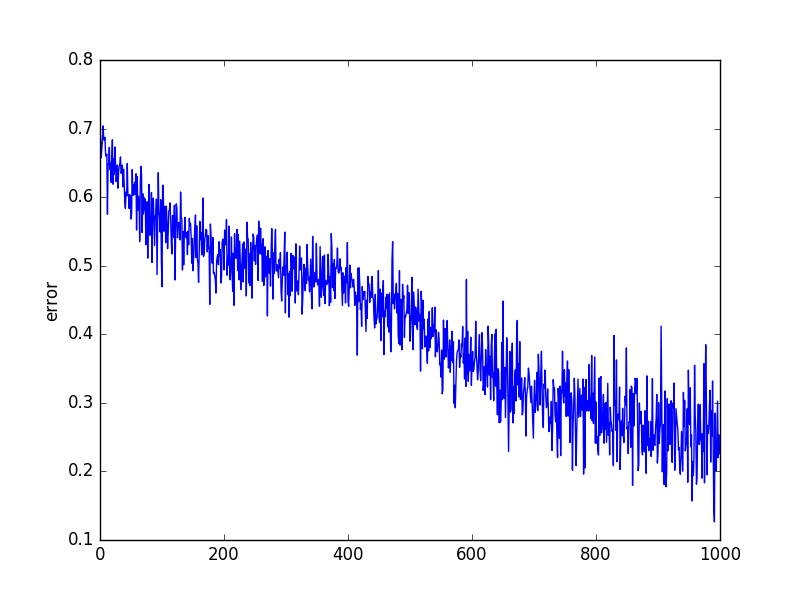
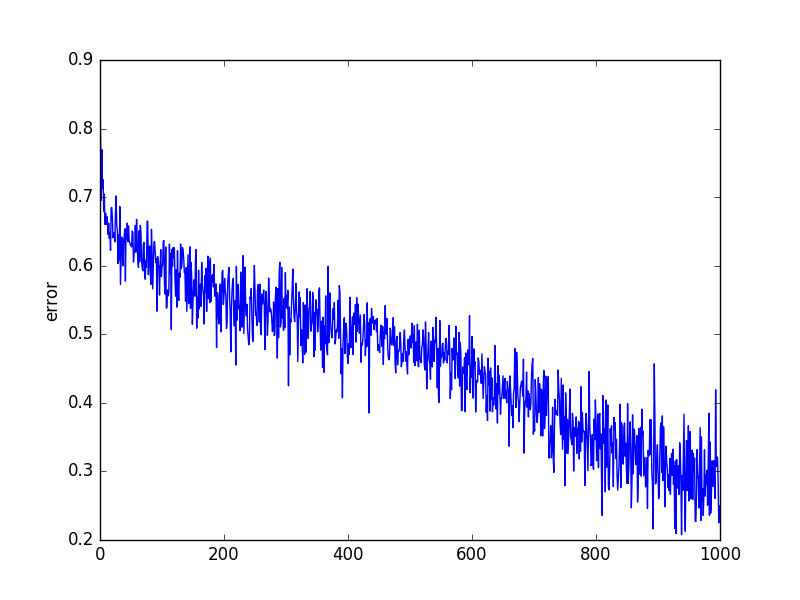
Bias Fixed
The Bias of the NN was fixed to a constant 1.

diff --git a/FNN-SGD.py b/FNN-SGD.py
@@ -48,14 +48,18 @@ class Network:
 
 		self.minPerf = MinPer
 										#initialize weights ( W1 W2 ) and bias ( b1 b2 ) of the network
-		#np.random.seed() 
+		np.random.seed() 
 		
 		self.W1 = np.random.randn(self.Top[0]  , self.Top[1])  / np.sqrt(self.Top[0] ) 
-		self.B1 = np.random.randn(1  , self.Top[1])  / np.sqrt(self.Top[1] ) # bias first layer
+		#self.B1 = np.random.randn(1, self.Top[1])  / np.sqrt(self.Top[1] ) # bias first layer
+		self.B1 = np.ones( self.Top[1]) # / np.sqrt(self.Top[1] ) # bias first layer
+
 		self.BestB1 = self.B1
 		self.BestW1 = self.W1 
 		self.W2 = np.random.randn(self.Top[1] , self.Top[2]) / np.sqrt(self.Top[1] )
-		self.B2 = np.random.randn(1  , self.Top[2])  / np.sqrt(self.Top[1] ) # bias second layer
+		#self.B2 = np.random.randn(1  , self.Top[2])  / np.sqrt(self.Top[1] ) # bias second layer
+		self.B2 = np.ones( self.Top[2])  # bias second layer
+
 		self.BestB2 = self.B2
 		self.BestW2 = self.W2 
 		self.hidout = np.zeros((1, self.Top[1] )) # output of first hidden layer
@@ -234,12 +238,14 @@ def main():
 	root = Tkinter.Tk()
 	root.withdraw()
 
-	tkMessageBox.showinfo("Input", "Choose Training Data File")
-	tr_file_path = tkFileDialog.askopenfilename()
+	# tkMessageBox.showinfo("Input", "Choose Training Data File")
+	# tr_file_path = tkFileDialog.askopenfilename()
 
-	tkMessageBox.showinfo("Input", "Choose Testing Data File")
-	ts_file_path = tkFileDialog.askopenfilename()
+	# tkMessageBox.showinfo("Input", "Choose Testing Data File")
+	# ts_file_path = tkFileDialog.askopenfilename()
 
+	tr_file_path = "train.txt"
+	ts_file_path = "test.txt"
 	if problem == 1:
 
 		TrDat  = np.loadtxt(tr_file_path) #  Iris classification problem (UCI dataset)
@@ -260,14 +266,14 @@ def main():
 	TestSize = len(TestData)
 
 	Topo = [Input, Hidden, Output] 
-	MaxRun = input("Enter Number of Experimental Runs : ") # number of experimental runs 
+	MaxRun = 5#input("Enter Number of Experimental Runs : ") # number of experimental runs 
 	 
 	MinCriteria = 95 #stop when learn 95 percent
 
 	trainTolerance = 0.2 # [eg 0.15 would be seen as 0] [ 0.81 would be seen as 1]
 	testTolerance = 0.3
 
-	useStocasticGD =  input("Choose 0 for Vanilla BP, or 1 for Stochastic BP : ")# 0 for vanilla BP. 1 for Stocastic BP
+	useStocasticGD =  1#input("Choose 0 for Vanilla BP, or 1 for Stochastic BP : ")# 0 for vanilla BP. 1 for Stocastic BP
 	useVanilla = 1 # 1 for Vanilla Gradient Descent, 0 for Gradient Descent with momentum (either regular momentum or nesterov momen) 
 	useNestmomen = 0 # 0for regular momentum, 1 for Nesterov momentum
 
